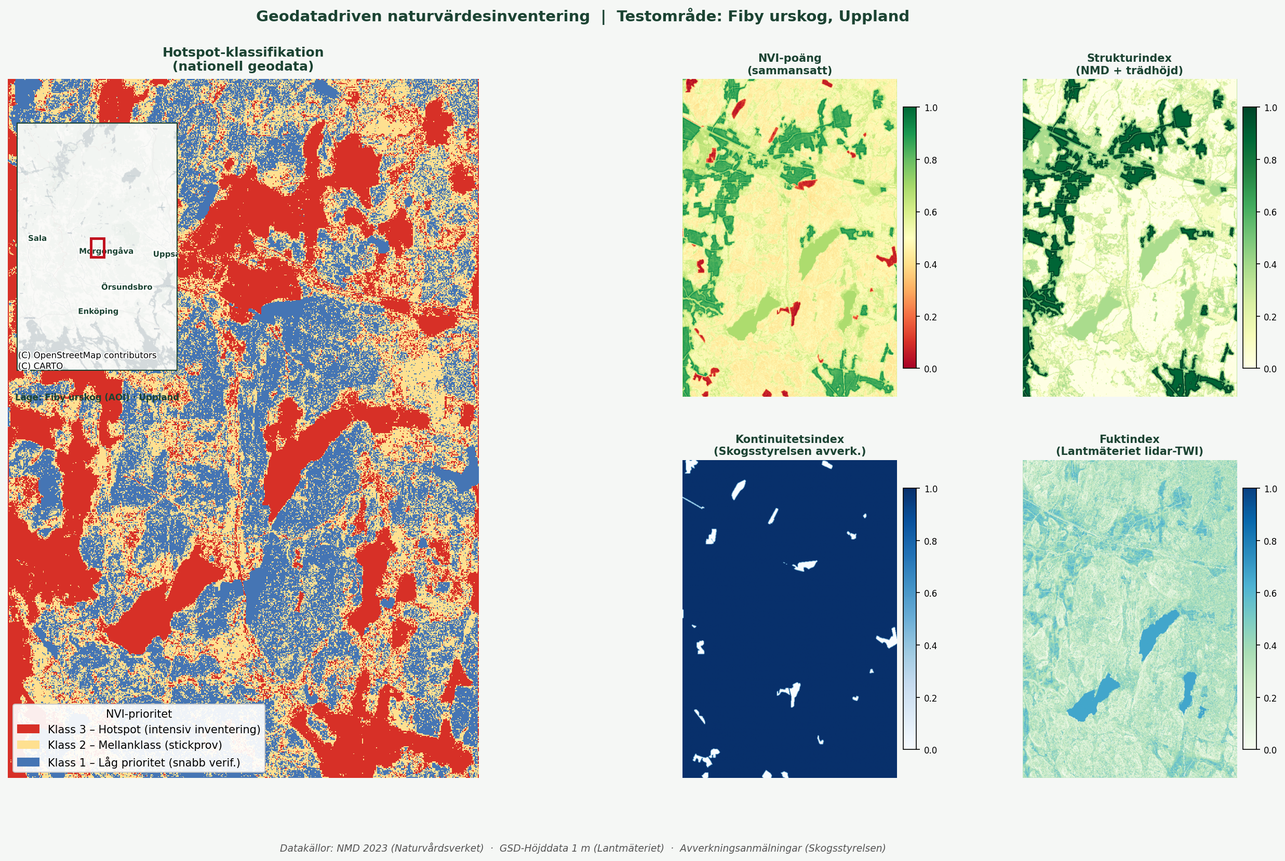
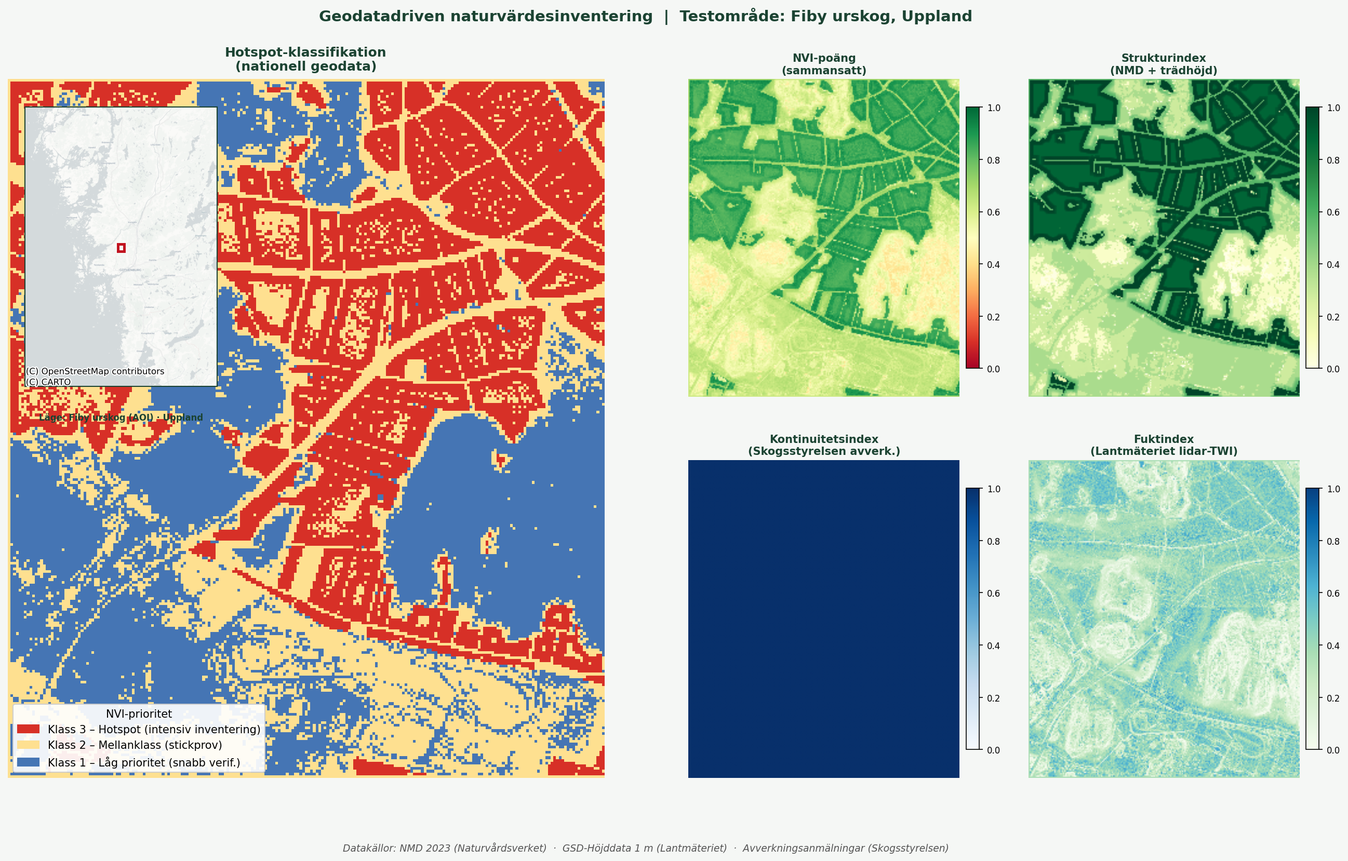
Fix: Lantmäteriet OAuth2-token + tile-filtrering mot AOI
- config.py: get_lantmateriet_token() hämtar färsk JWT via consumer_key/
  consumer_secret (https://api.lantmateriet.se/token) istället för statisk
  LANTMATERIET_API_KEY som löper ut
- download_data.py: använder get_lantmateriet_token() vid DEM-nedladdning
- compute_indices.py: merge_and_clip() filtrerar bort tiles som inte
  överlappar AOI (hindrar 270 GiB-allokering när gamla Fiby-tiles finns kvar);
  build_moisture_index() fångar ValueError och faller igenom till NMD-fallback
- Uppdaterade showcase-bilder med lidar-baserat fuktindex (NVI 0.40–0.94)

diff --git a/scripts/python/config.py b/scripts/python/config.py
@@ -87,8 +87,26 @@ WEIGHTS = {
 
 # ── Svenska datakällor – API-nycklar ─────────────────────────────────────────
 # Lantmäteriet: gratis konto på https://opendata.lantmateriet.se/
-# Sätt LANTMATERIET_API_KEY som miljövariabel eller i .env-fil
-LANTMATERIET_API_KEY = os.environ.get("LANTMATERIET_API_KEY", "")
+# Föredragen metod: consumer_key + consumer_secret i .env → automatisk token-hämtning
+# Fallback: statisk LANTMATERIET_API_KEY (JWT, löper ut)
+LANTMATERIET_API_KEY      = os.environ.get("LANTMATERIET_API_KEY", "")
+LANTMATERIET_CONSUMER_KEY    = os.environ.get("consumer_key", "")
+LANTMATERIET_CONSUMER_SECRET = os.environ.get("consumer_secret", "")
+
+def get_lantmateriet_token() -> str:
+    """Hämtar en färsk Bearer-token via OAuth2 client_credentials.
+    Faller tillbaka på statisk LANTMATERIET_API_KEY om consumer_key saknas."""
+    if LANTMATERIET_CONSUMER_KEY and LANTMATERIET_CONSUMER_SECRET:
+        import requests as _req
+        r = _req.post(
+            "https://api.lantmateriet.se/token",
+            data={"grant_type": "client_credentials"},
+            auth=(LANTMATERIET_CONSUMER_KEY, LANTMATERIET_CONSUMER_SECRET),
+            timeout=15,
+        )
+        r.raise_for_status()
+        return r.json()["access_token"]
+    return LANTMATERIET_API_KEY
 
 # ── NMD-klassomvandling (klass → bredare kategori) ───────────────────────────
 # NMD2023: 1=barrskog, 2=lövskog, 3=blandskog, 4=åkermark, 5=öppen mark,

diff --git a/scripts/python/compute_indices.py b/scripts/python/compute_indices.py
@@ -74,6 +74,22 @@ def clip_and_read(tif_path: Path, crs_is_sweref: bool = True):
 
 def merge_and_clip(paths: list, crs_is_sweref: bool = True):
     """Sätter ihop brickor och klipper till AOI."""
+    # Filtrera bort tiles som inte överlappar AOI
+    aoi_box = box(*aoi_sweref()) if crs_is_sweref else box(
+        AOI_BBOX["min_lon"], AOI_BBOX["min_lat"],
+        AOI_BBOX["max_lon"], AOI_BBOX["max_lat"],
+    )
+    overlapping = []
+    for p in paths:
+        with rasterio.open(p) as src:
+            b = src.bounds
+            tile_box = box(b.left, b.bottom, b.right, b.top)
+            if aoi_box.intersects(tile_box):
+                overlapping.append(p)
+    if not overlapping:
+        raise ValueError("Input shapes do not overlap raster.")
+    paths = overlapping
+
     if len(paths) == 1:
         return clip_and_read(paths[0], crs_is_sweref)
     datasets = [rasterio.open(p) for p in paths]
@@ -273,7 +289,12 @@ def build_moisture_index(target_shape: tuple):
     lm_files = sorted(LM_DIR.glob("*.tif"))
     if lm_files:
         print("  Kalla: Lantmateriet GSD-Hojddata")
-        dem, _ = merge_and_clip(lm_files)
+        try:
+            dem, _ = merge_and_clip(lm_files)
+        except ValueError:
+            print("  [VARNING] LM-tiles overlappar inte AOI – hoppar till nasta kalla")
+            lm_files = []
+    if lm_files:
         dem[dem < -1000] = np.nan
         cell_m = 2.0  # 2m-modell
         twi = compute_twi(dem, cell_m=cell_m)

diff --git a/scripts/python/download_data.py b/scripts/python/download_data.py
@@ -38,6 +38,7 @@ from config import (
     SLU_DIR,
     PROTECTED_SITES_DIR,
     LANTMATERIET_API_KEY,
+    get_lantmateriet_token,
     EPSG_SWEREF,
 )
 
@@ -734,15 +735,21 @@ def download_protected_sites(
 def download_lantmateriet_dem() -> None:
     print("\n[Lantmateriet GSD-Hojddata (STAC)]")
 
-    if not LANTMATERIET_API_KEY:
+    try:
+        token = get_lantmateriet_token()
+    except Exception as e:
+        token = ""
+        print(f"  [VARNING] Kunde inte hämta token: {e}")
+
+    if not token:
         print(
             "  [INFO] API-nyckel saknas – hoppar over Lantmateriet-data.\n"
             "  Registrera gratis pa: https://opendata.lantmateriet.se/\n"
-            "  Satt sedan: export LANTMATERIET_API_KEY=din_nyckel"
+            "  Satt consumer_key + consumer_secret i .env"
         )
         return
 
-    headers = {"Authorization": f"Bearer {LANTMATERIET_API_KEY}"}
+    headers = {"Authorization": f"Bearer {token}"}
 
     print("  Soker STAC-items for AOI ...")
     try:
